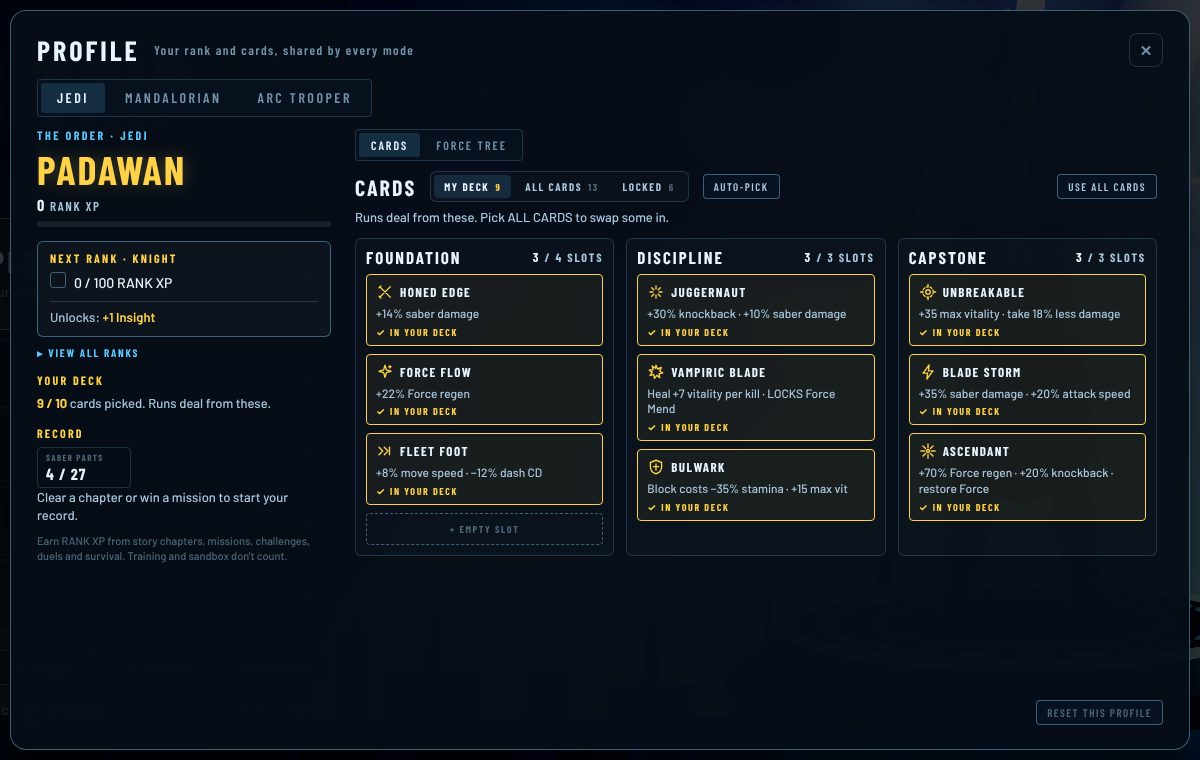
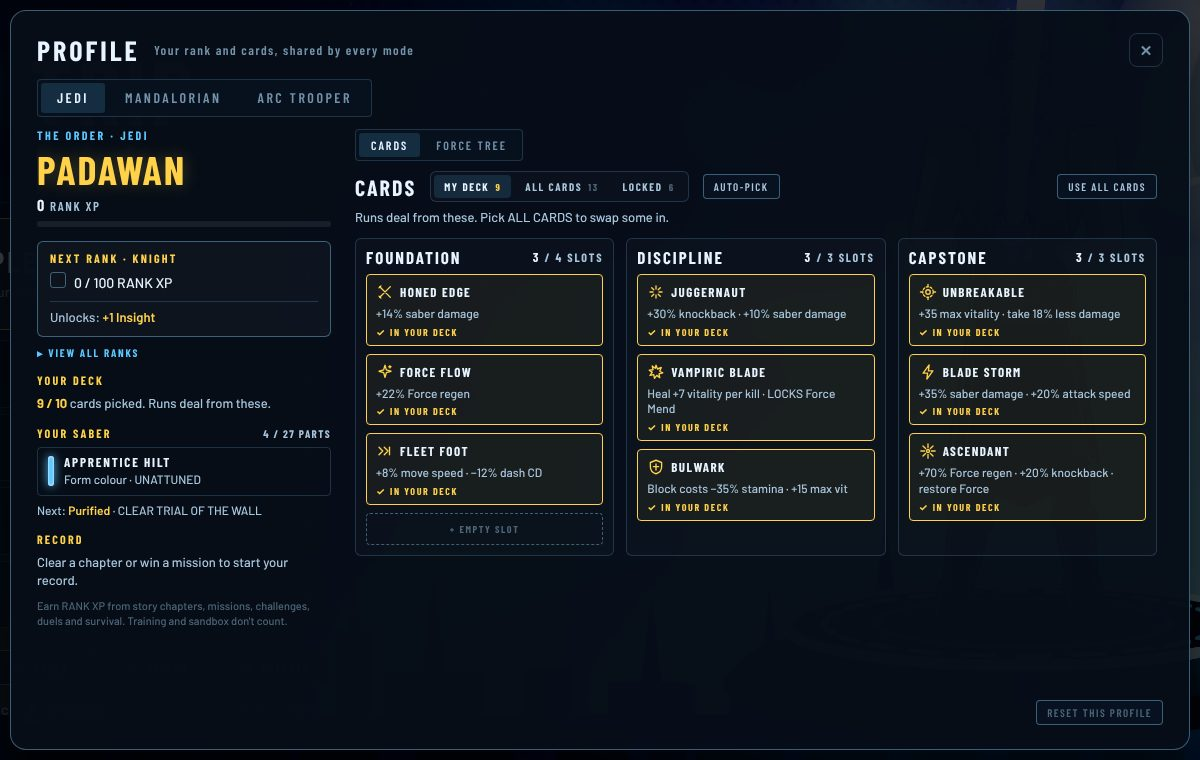
Profile: a short YOUR SABER / YOUR KIT card back in the overview
What's fitted (colour, hilt or side gear, attunement), parts owned and the nearest next part. The bench
how-to and long descriptions stay at the workbench, forge and locker.

Claude-Session: https://claude.ai/code/session_01GXE5t2dAsYaBkDm5B8t4Zq

Changed region(s): [[0.0308, 0.5447, 0.2467, 0.8474], [0.2158, 0.5447, 0.2775, 0.575]]

diff --git a/src/ui/profile-ui.js b/src/ui/profile-ui.js
@@ -3,7 +3,7 @@
 // the record; the full ladder behind VIEW ALL RANKS) and CARDS on the right: every card the hero has, by tier, the deck's
 // picks lit and locked ones (rank cards, the tree's) dimmed. The Jedi alone has a second tab, the FORCE TREE, where Insight
 // from each rank learns the tree's cards and a PATH picks the branch the upgrade page always deals from. The saber and the
-// kit live at their benches (workbench, forge, locker), not here. Opens from PROFILE on the main menu, the hub and the pause
+// kit get a short card here (what's fitted, parts, the next one); the benches (workbench, forge, locker) have the rest. Opens from PROFILE on the main menu, the hub and the pause
 // screen, in every mode. game/profile.js keeps it all; data/profile.js has the words.
 
 import { G } from '../state.js';
@@ -21,7 +21,10 @@ import { FORMS } from '../data/forms.js';
 import { chapterOrder, forHero } from '../data/campaign.js';
 import { icon } from './icons.js';
 import { upToast } from '../game/upgrades.js';
-import { BENCH_NAME } from '../data/hero-benches.js';
+import { EARNABLE, crystalOf, earnProgress, earnText } from '../data/saber-parts.js';
+import { benchOf, earnableOf, SIDE_ROW, BENCH_NAME } from '../data/hero-benches.js';
+import { CUSTOMIZE, wornOption } from '../data/customize.js';
+import { loadPicks } from '../player/mesh.js';
 
 const panel = document.getElementById('profile');
 const btn = document.getElementById('pfBtn');
@@ -73,8 +76,7 @@ function leftCol(h){
     : '<p class="pf-note">Not built yet, so runs deal from every card you own.</p>' + (live ? '' : '<span class="btn pf-build" data-deckact="suggest">BUILD A DECK</span>');
   const rec = [['CHAPTERS', Object.keys(p.cleared).length], ['TRIALS', trialsPassed(p) + ' / 3'], ['MISSIONS', Object.keys(p.missions).length],
                ['CAMPAIGN WINS', p.won], ['DUELS WON', p.duels], h === 'jedi' ? ['FORM RANKS', p.forms] : ['MASTERY RANKS', p.powers],
-               ['SIDE MISSIONS', Object.keys(p.sides || {}).length], ['SECRETS', Object.keys(p.secrets || {}).length],
-               [h === 'jedi' ? 'SABER PARTS' : 'KIT PARTS', partsOwned(h) + ' / ' + partsTotal(h)]];
+               ['SIDE MISSIONS', Object.keys(p.sides || {}).length], ['SECRETS', Object.keys(p.secrets || {}).length]];
   return `<div class="pf-col pf-left">
     <div class="pf-kick">${esc(T.name)} · ${esc(HERO_NAME[h])}</div>
     <div class="pf-rank">${esc(R.nm)}</div>
@@ -84,15 +86,36 @@ function leftCol(h){
     <span class="pf-link" data-ladder>${ladderOpen ? '▾ HIDE RANKS' : '▸ VIEW ALL RANKS'}</span>
     ${ladderOpen ? `<ol class="pf-ladder">${ladder}</ol>` : ''}
     <div class="pf-sec pf-deckbox"><h4>YOUR DECK</h4>${deckBox}</div>
+    ${gearSec(h)}
     ${recBox(rec)}
     <p class="pf-note pf-how">Earn ${esc(T.unit)} from story chapters, missions, challenges, duels and survival. Training and sandbox don't count.</p>
   </div>`;
 }
 
+// YOUR SABER / YOUR KIT, the short version: what's fitted, how many parts, the nearest next one (the benches have the rest)
+function gearSec(h){
+  const mine = (loadPicks()[h]) || {}, at = (id) => wornOption(h, CUSTOMIZE[h].find(r => r.id === id), mine);
+  let col, title, sub;
+  if (h === 'jedi'){
+    const c = crystalOf(at('saber').id);
+    col = c.col; title = at('hilt').name.toUpperCase() + ' HILT'; sub = c.name + ' · ' + c.att;
+  } else {
+    const side = benchOf(h).find(r => r.id === SIDE_ROW[h]), part = side.parts.find(p => p.id === at(side.id).id) || side.parts[0];
+    col = part.col; title = side.label; sub = part.att;
+  }
+  const next = (h === 'jedi' ? EARNABLE : earnableOf(h)).map(([row, part]) => ({ part, e: earnProgress(profileOf(h), part.earn) }))
+    .filter(x => x.e.have < x.e.need).sort((a, b) => (b.e.have / b.e.need) - (a.e.have / a.e.need))[0];
+  const c = col != null ? '#' + col.toString(16).padStart(6, '0') : 'var(--accent)';
+  return '<div class="pf-sec pf-saber"><h4>' + (h === 'jedi' ? 'YOUR SABER' : 'YOUR KIT') + '<em>' + partsOwned(h) + ' / ' + partsTotal(h) + ' PARTS</em></h4>' +
+    '<div class="pf-sb"><i style="--c:' + c + '"></i><div><b>' + esc(title) + '</b><span>' + esc(sub) + '</span></div></div>' +
+    (next ? '<p class="pf-note">Next: <b>' + esc(next.part.name) + '</b> · ' + esc(earnText(next.part.earn, (id) => chapterName(id, h))) + (next.e.need > 1 ? ' (' + next.e.have + ' / ' + next.e.need + ')' : '') + '</p>' : '<p class="pf-note">Every part is yours.</p>') +
+    '</div>';
+}
+
 // the RECORD shows what's been earned: zeros are hidden, and a new hero gets one line instead of a grid of them
 function recBox(rec){
   const got = rec.filter(r => !/^0(\b| \/)/.test(String(r[1])));
-  const any = got.some(r => !/PARTS$/.test(r[0]));
+  const any = got.length > 0;
   return '<div class="pf-sec"><h4>RECORD</h4>' + (got.length ? '<div class="pf-rec">' + got.map(r => '<div><span>' + r[0] + '</span><b>' + r[1] + '</b></div>').join('') + '</div>' : '') +
     (any ? '' : '<p class="pf-note">Clear a chapter or win a mission to start your record.</p>') + '</div>';
 }

diff --git a/styles/profile.css b/styles/profile.css
@@ -146,3 +146,13 @@
   .pf-dtier.shut .pf-caret{transform:rotate(-90deg)}
   .pf-th .pf-filter{order:5;flex-basis:100%;justify-content:space-between}
 }
+/* YOUR SABER / YOUR KIT, the short card (ui/profile-ui.js gearSec) */
+.pf-saber h4{display:flex;align-items:baseline;gap:8px}
+.pf-saber h4 em{margin-left:auto;font-style:normal;color:var(--ink-soft);letter-spacing:1.4px;font-size:11px}
+.pf-sb{display:flex;align-items:center;gap:10px;padding:8px 10px;border:1px solid var(--edge);border-radius:var(--r)}
+.pf-sb i{flex:none;width:6px;height:30px;border-radius:3px;background:var(--c);box-shadow:0 0 10px var(--c),0 0 3px #fff inset}
+.pf-sb div{display:flex;flex-direction:column;gap:3px;min-width:0}
+.pf-sb b{font:700 13px/1 var(--font-ui);letter-spacing:1.8px;color:var(--ink)}
+.pf-sb span{font:500 12px/1.3 var(--font-body);color:var(--ink-soft)}
+.pf-saber .pf-note{margin-top:6px;font-size:12px}
+.pf-saber .pf-note b{color:var(--gold);font-weight:600}
